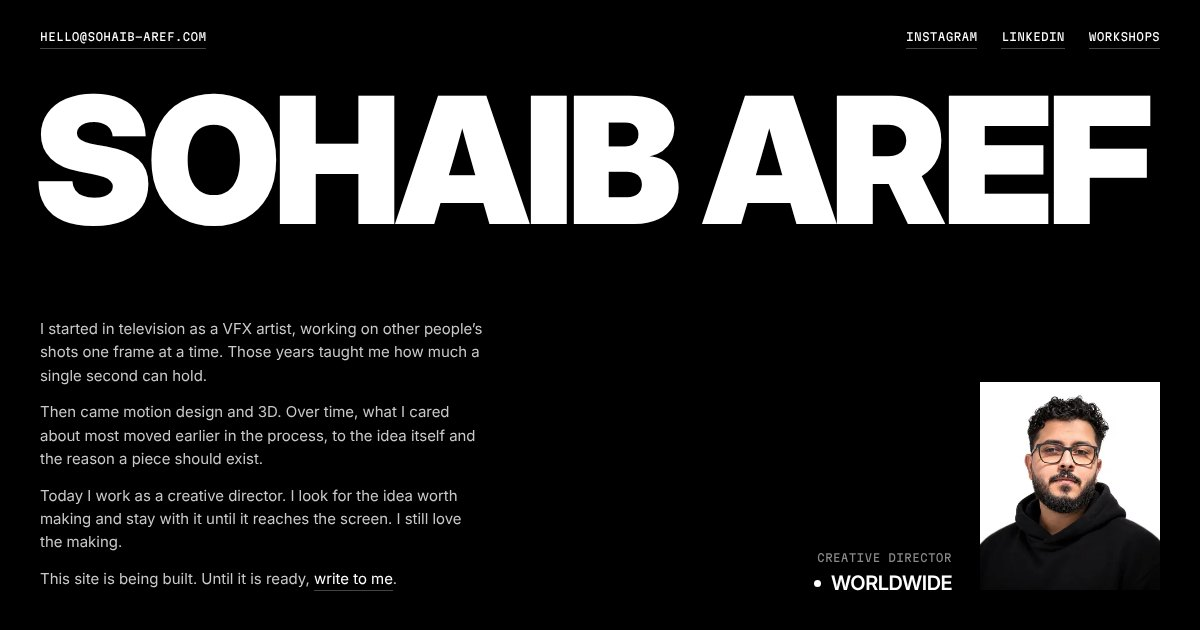
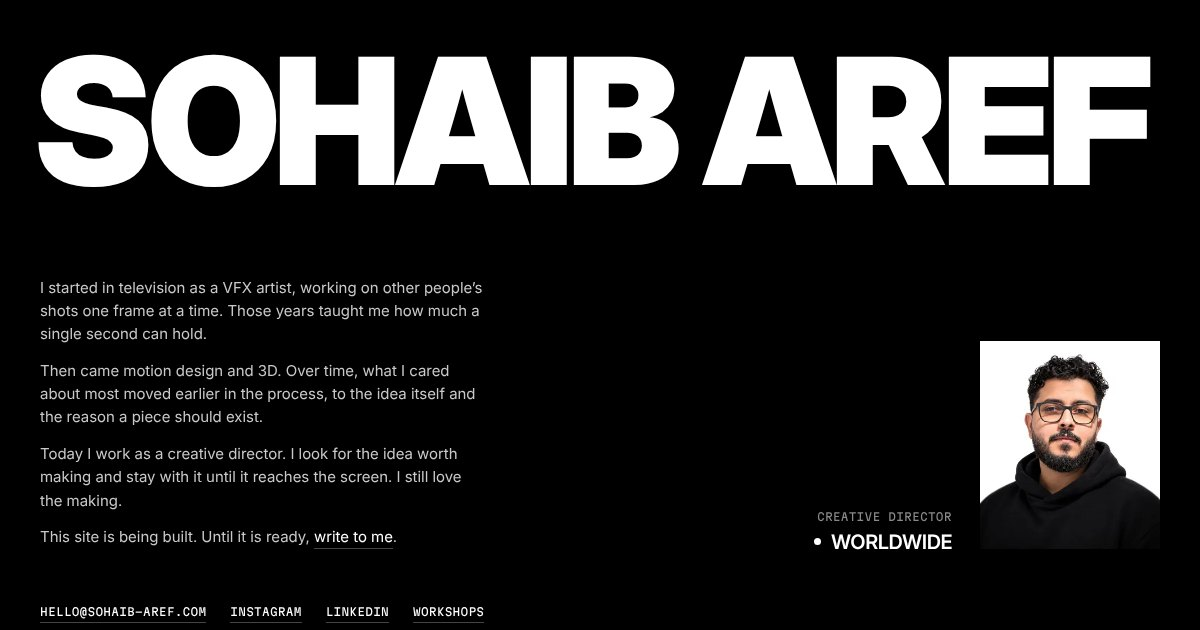
Links back in the footer with LinkedIn, top bar removed

diff --git a/index.html b/index.html
@@ -27,8 +27,7 @@
 *{box-sizing:border-box;margin:0}
 html,body{overflow-x:clip}
 body{background:#000;color:#fff;font-family:Inter,"Noto Arabic",system-ui,sans-serif;-webkit-font-smoothing:antialiased}
-.page{min-height:100vh;min-height:100dvh;display:flex;flex-direction:column;padding:28px 40px 40px}
-.top{display:flex;justify-content:space-between;align-items:baseline;gap:10px 24px;flex-wrap:wrap;margin-bottom:clamp(22px,2.6vw,40px)}
+.page{min-height:100vh;min-height:100dvh;display:flex;flex-direction:column;padding:40px}
 .content{flex:1;display:flex;flex-direction:column}
 .mark{font-weight:900;font-size:13.6vw;line-height:.8;letter-spacing:-.035em;text-transform:uppercase;white-space:nowrap;margin-left:-.04em;padding-top:.06em}
 .mark .w{display:inline}
@@ -43,7 +42,7 @@ body{background:#000;color:#fff;font-family:Inter,"Noto Arabic",system-ui,sans-s
 .bio .wd{white-space:nowrap}
 .bio .ch{display:inline-block;text-align:center;white-space:pre}
 .mono{font-family:"Martian Mono","Noto Arabic",ui-monospace,monospace;font-size:clamp(11px,.2vw + 8.2px,12px);letter-spacing:.02em;text-transform:uppercase;line-height:1.6}
-.foot{display:none}
+.foot{margin-top:clamp(36px,4.5vw,64px)}
 .sr{position:absolute;width:1px;height:1px;overflow:hidden;clip-path:inset(50%);white-space:nowrap}
 .links{display:flex;gap:12px 24px;flex-wrap:wrap}
 a{color:#fff;text-decoration:none;border-bottom:1px solid #444;padding-bottom:2px;transition:border-color .3s}
@@ -87,9 +86,9 @@ html.intro .frame img{animation:settle 2.6s cubic-bezier(.22,1,.36,1) .3s both p
 html.intro .bio p{--b:9px;--y:12px;animation:focus 1.7s cubic-bezier(.22,1,.36,1) both paused}
 html.intro .bio p:nth-child(1){animation-delay:.55s}html.intro .bio p:nth-child(2){animation-delay:.65s}html.intro .bio p:nth-child(3){animation-delay:.75s}html.intro .bio p:nth-child(4){animation-delay:.85s}
 html.intro .who__txt{--b:6px;animation:focus 1.5s cubic-bezier(.22,1,.36,1) .85s both paused}
-html.intro .top,html.intro .foot{--b:6px;animation:focus 1.5s cubic-bezier(.22,1,.36,1) 1.05s both paused}
-html.intro.go .mark .l,html.intro.go .bio p,html.intro.go .frame,html.intro.go .frame img,html.intro.go .who__txt,html.intro.go .top,html.intro.go .foot{animation-play-state:running}
-html.intro-done .mark .l,html.intro-done .bio p,html.intro-done .frame,html.intro-done .frame img,html.intro-done .who__txt,html.intro-done .top,html.intro-done .foot{animation:none}
+html.intro .foot{--b:6px;animation:focus 1.5s cubic-bezier(.22,1,.36,1) 1.05s both paused}
+html.intro.go .mark .l,html.intro.go .bio p,html.intro.go .frame,html.intro.go .frame img,html.intro.go .who__txt,html.intro.go .foot{animation-play-state:running}
+html.intro-done .mark .l,html.intro-done .bio p,html.intro-done .frame,html.intro-done .frame img,html.intro-done .who__txt,html.intro-done .foot{animation:none}
 @media (max-width:810px),(max-width:1100px) and (max-aspect-ratio:4/5){
   .who__txt{margin-bottom:0}
   .place{flex-direction:column;align-items:flex-start}
@@ -97,10 +96,8 @@ html.intro-done .mark .l,html.intro-done .bio p,html.intro-done .frame,html.intr
   .place__menu{position:static;visibility:visible;pointer-events:auto;flex-direction:row;flex-wrap:wrap;align-items:center;gap:0 16px;padding:10px 0 0;background:none}
   .place__opt{opacity:1;transform:none;font-size:12px!important;font-weight:500!important;letter-spacing:0!important;gap:6px!important;padding:6px 0!important;color:#8a8a8a!important}
   .place__cur::before{animation:none}
-  .page{padding:18px 20px 28px}
-  .top{margin-bottom:26px}
-  .top .mail{display:none}
-  .foot{display:block;margin-top:44px}
+  .page{padding:20px 20px 28px}
+  .foot{margin-top:44px}
   .mark{font-size:23.4vw;white-space:normal}
   .mark .w{display:block}
   .low{flex-direction:column-reverse;align-items:stretch;gap:40px;margin-top:40px;padding-top:0}
@@ -109,7 +106,7 @@ html.intro-done .mark .l,html.intro-done .bio p,html.intro-done .frame,html.intr
   .frame{width:min(42%,220px)}
 }
 @media (min-width:600px) and (max-width:1100px) and (max-aspect-ratio:4/5){
-  .page{padding:28px 40px 40px}
+  .page{padding:40px}
   .bio{max-width:none}.bio p{font-size:19px}
   .frame{width:min(36%,300px)}
   .low{margin-top:56px}
@@ -118,7 +115,6 @@ html.intro-done .mark .l,html.intro-done .bio p,html.intro-done .frame,html.intr
 </head>
 <body>
 <div class="page">
-  <header class="top mono" lang="en"><a class="mail" href="mailto:hello@sohaib-aref.com">hello@sohaib-aref.com</a><nav class="links" aria-label="Links"><a href="https://www.instagram.com/sohaib_creative/" target="_blank" rel="noopener">Instagram</a><a href="https://www.linkedin.com/in/sohaib-creative/" target="_blank" rel="noopener">LinkedIn</a><a href="workshops.html">Workshops</a></nav></header>
   <main class="content">
   <h1 class="mark" data-fit lang="en" aria-label="Sohaib Aref"><span class="w" aria-hidden="true"><span class="l" style="--i:0"><span class="g">S</span></span><span class="l" style="--i:1"><span class="g">o</span></span><span class="l" style="--i:2"><span class="g">h</span></span><span class="l" style="--i:3"><span class="g">a</span></span><span class="l" style="--i:4"><span class="g">i</span></span><span class="l" style="--i:5"><span class="g">b</span></span></span> <span class="w" aria-hidden="true"><span class="l" style="--i:6"><span class="g">A</span></span><span class="l" style="--i:7"><span class="g">r</span></span><span class="l" style="--i:8"><span class="g">e</span></span><span class="l" style="--i:9"><span class="g">f</span></span></span></h1>
   <div class="low">
@@ -142,7 +138,7 @@ html.intro-done .mark .l,html.intro-done .bio p,html.intro-done .frame,html.intr
     </div>
   </div>
   </main>
-  <footer class="foot" lang="en"><p class="mono"><a href="mailto:hello@sohaib-aref.com">hello@sohaib-aref.com</a></p></footer>
+  <footer class="foot" lang="en"><p class="mono links"><a href="mailto:hello@sohaib-aref.com">hello@sohaib-aref.com</a><a href="https://www.instagram.com/sohaib_creative/" target="_blank" rel="noopener">Instagram</a><a href="https://www.linkedin.com/in/sohaib-creative/" target="_blank" rel="noopener">LinkedIn</a><a href="workshops.html">Workshops</a></p></footer>
 </div>
 <script>
 (function(){
@@ -278,7 +274,7 @@ html.intro-done .mark .l,html.intro-done .bio p,html.intro-done .frame,html.intr
 </script>
 <script>
 (function(){
-  var n=0;function go(){if(++n===2)setTimeout(function(){import("./js/sym3d.js?v=6")},400)}
+  var n=0;function go(){if(++n===2)setTimeout(function(){import("./js/sym3d.js?v=7")},400)}
   addEventListener("load",go);
   if(document.documentElement.classList.contains("intro"))addEventListener("introdone",go);else go();
   // the Arabic font loads quietly so the switch to Gulf is instant

diff --git a/workshops.html b/workshops.html
@@ -13,8 +13,7 @@
 @font-face{font-family:"Martian Mono";src:url(fonts/martian-mono-400.woff2) format("woff2");font-weight:400;font-display:swap}
 *{box-sizing:border-box;margin:0}
 body{background:#000;color:#fff;font-family:Inter,system-ui,sans-serif;-webkit-font-smoothing:antialiased}
-.page{min-height:100vh;min-height:100dvh;display:flex;flex-direction:column;gap:clamp(32px,5vw,72px);padding:28px 40px 40px}
-.top{display:flex;justify-content:space-between;align-items:baseline;gap:10px 24px;flex-wrap:wrap;margin-bottom:calc(clamp(22px,2.6vw,40px) - clamp(32px,5vw,72px))}
+.page{min-height:100vh;min-height:100dvh;display:flex;flex-direction:column;gap:clamp(32px,5vw,72px);padding:40px}
 .mark{font-weight:900;font-size:13.6vw;line-height:.8;letter-spacing:-.035em;text-transform:uppercase;white-space:nowrap;margin-left:-.04em;padding-top:.06em}
 .mono{font-family:"Martian Mono",ui-monospace,monospace;font-size:clamp(11px,.2vw + 8.2px,12px);letter-spacing:.02em;text-transform:uppercase;line-height:1.6}
 .dim{color:#8a8a8a}
@@ -30,21 +29,20 @@ a:focus-visible{outline:1px solid #fff;outline-offset:4px}
 @keyframes focus{0%{opacity:0;filter:blur(var(--b));transform:translateY(var(--y,0)) scale(var(--s,1))}55%{opacity:1}100%{opacity:1;filter:blur(0);transform:none}}
 html.intro .mark>span{display:inline-block;--b:.1em;--s:1.04;animation:focus 2s cubic-bezier(.22,1,.36,1) .05s both paused}
 html.intro .body{--b:9px;--y:12px;animation:focus 1.7s cubic-bezier(.22,1,.36,1) .45s both paused}
-html.intro .top,html.intro .foot{--b:6px;animation:focus 1.5s cubic-bezier(.22,1,.36,1) .8s both paused}
-html.intro.go .mark>span,html.intro.go .body,html.intro.go .top,html.intro.go .foot{animation-play-state:running}
-@media (max-width:810px){.page{padding:18px 20px 28px;gap:40px}.top{margin-bottom:-14px}}
+html.intro .foot{--b:6px;animation:focus 1.5s cubic-bezier(.22,1,.36,1) .8s both paused}
+html.intro.go .mark>span,html.intro.go .body,html.intro.go .foot{animation-play-state:running}
+@media (max-width:810px){.page{padding:20px;gap:40px}}
 </style>
 </head>
 <body>
 <main class="page">
-  <header class="top mono"><a href="/">Sohaib Aref</a><nav class="links" aria-label="Links"><a href="https://www.instagram.com/sohaib_creative/" target="_blank" rel="noopener">Instagram</a><a href="https://www.linkedin.com/in/sohaib-creative/" target="_blank" rel="noopener">LinkedIn</a></nav></header>
   <h1 class="mark"><span data-fit>Workshops</span></h1>
   <section class="body">
     <p class="mono dim">Upcoming</p>
     <p class="lead">No courses scheduled right now.</p>
     <p class="txt">When the next one is set, it will be listed here first. If you want to hear about it, write to me.</p>
   </section>
-  <footer class="foot"><p class="mono"><a href="mailto:hello@sohaib-aref.com?subject=Workshops">hello@sohaib-aref.com</a></p></footer>
+  <footer class="foot"><p class="mono links"><a href="index.html">Back</a><a href="mailto:hello@sohaib-aref.com?subject=Workshops">hello@sohaib-aref.com</a><a href="https://www.instagram.com/sohaib_creative/" target="_blank" rel="noopener">Instagram</a><a href="https://www.linkedin.com/in/sohaib-creative/" target="_blank" rel="noopener">LinkedIn</a></p></footer>
 </main>
 <script>
 (function(){

diff --git a/404.html b/404.html
@@ -13,8 +13,7 @@
 @font-face{font-family:"Martian Mono";src:url(/fonts/martian-mono-400.woff2) format("woff2");font-weight:400;font-display:swap}
 *{box-sizing:border-box;margin:0}
 body{background:#000;color:#fff;font-family:Inter,system-ui,sans-serif;-webkit-font-smoothing:antialiased}
-.page{min-height:100vh;min-height:100dvh;display:flex;flex-direction:column;gap:clamp(32px,5vw,72px);padding:28px 40px 40px}
-.top{display:flex;justify-content:space-between;align-items:baseline;gap:10px 24px;flex-wrap:wrap;margin-bottom:calc(clamp(22px,2.6vw,40px) - clamp(32px,5vw,72px))}
+.page{min-height:100vh;min-height:100dvh;display:flex;flex-direction:column;gap:clamp(32px,5vw,72px);padding:40px}
 .mark{font-weight:900;font-size:13.6vw;line-height:.8;letter-spacing:-.035em;text-transform:uppercase;white-space:nowrap;margin-left:-.04em;padding-top:.06em}
 .mono{font-family:"Martian Mono",ui-monospace,monospace;font-size:clamp(11px,.2vw + 8.2px,12px);letter-spacing:.02em;text-transform:uppercase;line-height:1.6}
 .dim{color:#8a8a8a}
@@ -30,21 +29,20 @@ a:focus-visible{outline:1px solid #fff;outline-offset:4px}
 @keyframes focus{0%{opacity:0;filter:blur(var(--b));transform:translateY(var(--y,0)) scale(var(--s,1))}55%{opacity:1}100%{opacity:1;filter:blur(0);transform:none}}
 html.intro .mark>span{display:inline-block;--b:.1em;--s:1.04;animation:focus 2s cubic-bezier(.22,1,.36,1) .05s both paused}
 html.intro .body{--b:9px;--y:12px;animation:focus 1.7s cubic-bezier(.22,1,.36,1) .45s both paused}
-html.intro .top,html.intro .foot{--b:6px;animation:focus 1.5s cubic-bezier(.22,1,.36,1) .8s both paused}
-html.intro.go .mark>span,html.intro.go .body,html.intro.go .top,html.intro.go .foot{animation-play-state:running}
-@media (max-width:810px){.page{padding:18px 20px 28px;gap:40px}.top{margin-bottom:-14px}}
+html.intro .foot{--b:6px;animation:focus 1.5s cubic-bezier(.22,1,.36,1) .8s both paused}
+html.intro.go .mark>span,html.intro.go .body,html.intro.go .foot{animation-play-state:running}
+@media (max-width:810px){.page{padding:20px;gap:40px}}
 </style>
 </head>
 <body>
 <main class="page">
-  <header class="top mono"><a href="/">Sohaib Aref</a><nav class="links" aria-label="Links"><a href="https://www.instagram.com/sohaib_creative/" target="_blank" rel="noopener">Instagram</a><a href="https://www.linkedin.com/in/sohaib-creative/" target="_blank" rel="noopener">LinkedIn</a></nav></header>
   <h1 class="mark"><span data-fit>404</span></h1>
   <section class="body">
     <p class="mono dim">Not found</p>
     <p class="lead">This page does not exist.</p>
     <p class="txt">The site is still being built. <a href="/">Go back to the start</a>.</p>
   </section>
-  <footer class="foot"><p class="mono"><a href="mailto:hello@sohaib-aref.com">hello@sohaib-aref.com</a></p></footer>
+  <footer class="foot"><p class="mono links"><a href="/">Back</a><a href="mailto:hello@sohaib-aref.com">hello@sohaib-aref.com</a><a href="https://www.instagram.com/sohaib_creative/" target="_blank" rel="noopener">Instagram</a><a href="https://www.linkedin.com/in/sohaib-creative/" target="_blank" rel="noopener">LinkedIn</a></p></footer>
 </main>
 <script>
 (function(){
